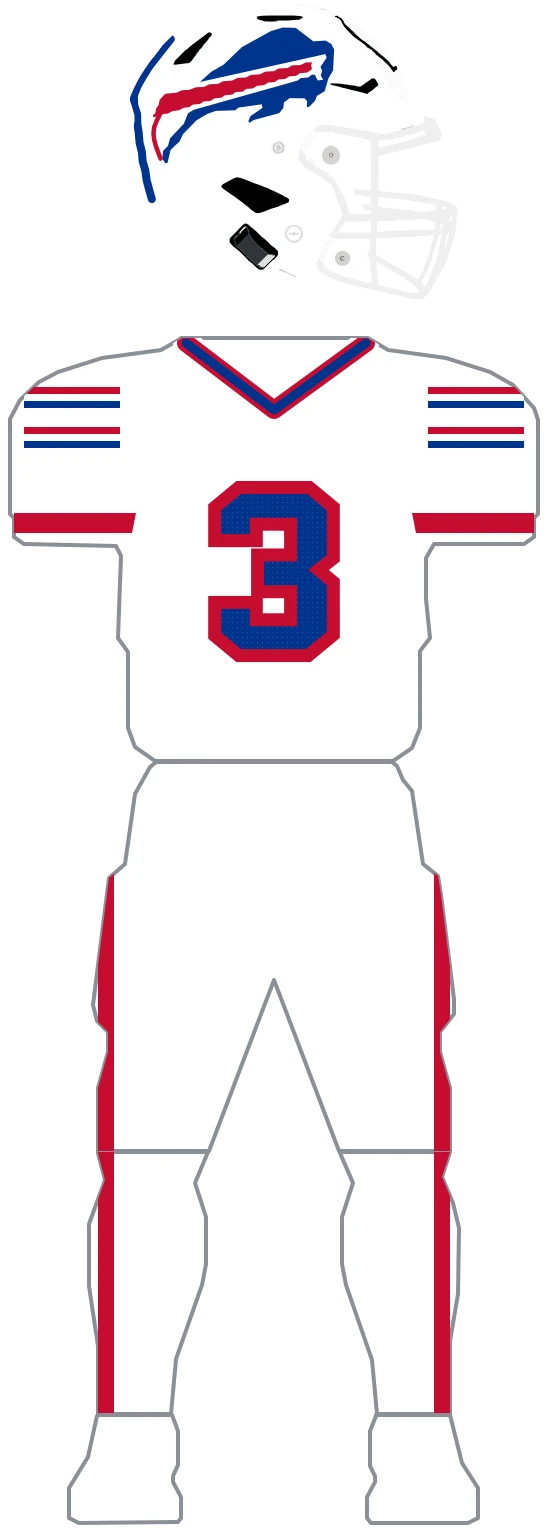
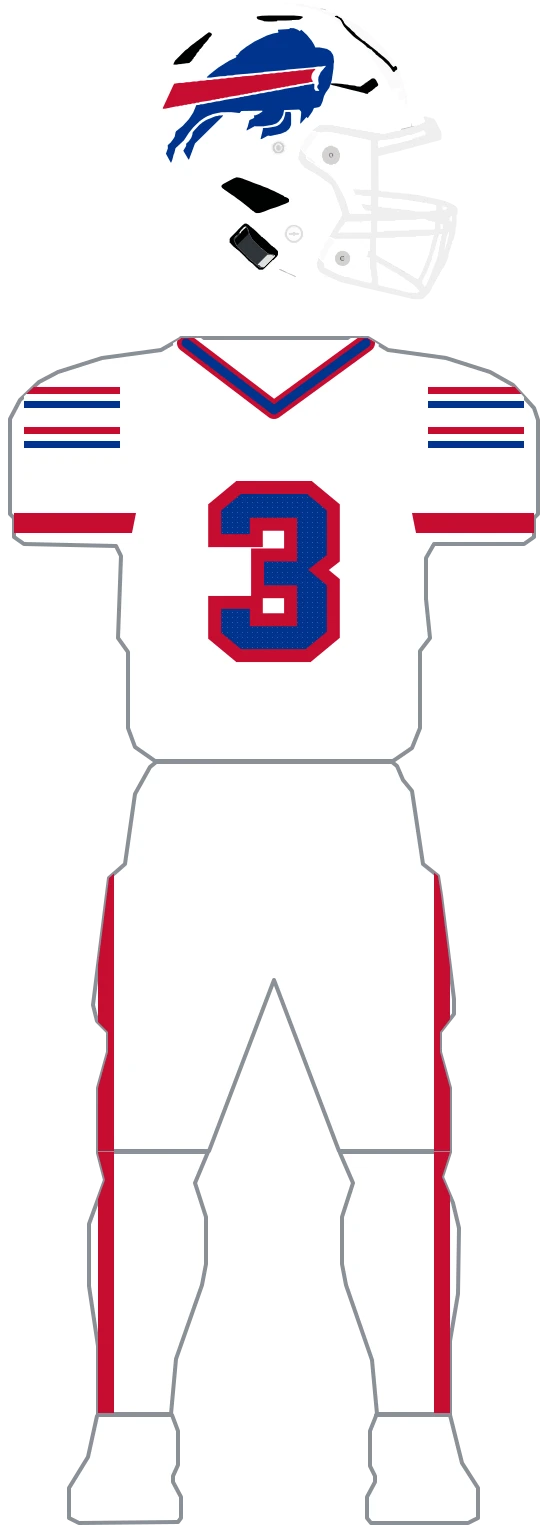
fix(uniforms): re-author Bills helmet buffalo (#739)
* fix(uniforms): re-author Bills helmet buffalo

* fix(uniforms): re-author Bills helmet buffalo

* fix(uniforms): correct Bills helmet decal

Changed region(s): [[0.2125, 0.0306, 0.6071, 0.1531]]

diff --git a/lib/uniforms/teams/bills.ts b/lib/uniforms/teams/bills.ts
@@ -1,4 +1,4 @@
-// Buffalo's construction geometry — the helmet decal/edge paths, sleeve-band paths, collar
+// Buffalo's construction geometry — the helmet decal, sleeve-band paths, collar
 // widths and fixed construction colors only. The composable parts definition that consumes them
 // lives in ./bills.parts.ts; the former flat BILLS_UNIFORMS was deleted in the migration that
 // proved parts render byte-identically (see parts-parity.test.ts for the one-time gate).
@@ -11,18 +11,9 @@ export const BILLS_RED = '#C60C30';
 // The abstract buffalo and diagonal stripe use the helmet's raw x:139-802, y:65-674 coordinates.
 // The stripe's unfilled notch intentionally lets the white shell show through.
 export const BILLS_HELMET_DECAL_BUFFALO_PATH =
-  'M542.2,156.0 L547.8,167.0 L545.6,208.8 L536.2,225.1 L528.9,250.5 L513.4,259.6 L509.3,270.0 L497.0,282.2 L492.9,281.6 L493.9,270.9 L488.8,264.7 L458.8,264.3 L447.5,272.5 L446.2,283.8 L438.0,294.2 L385.9,308.3 L379.3,313.6 L376.1,310.8 L380.5,300.1 L404.5,283.8 L402.9,276.6 L356.2,283.2 L350.2,288.5 L311.1,289.8 L294.3,295.7 L272.9,308.3 L245.7,335.9 L238.5,351.0 L220.8,367.6 L214.5,393.7 L210.0,394.6 L204.0,384.9 L205.6,369.8 L215.4,359.8 L219.8,344.4 L247.3,315.2 L255.5,294.5 L266.9,287.6 L474.3,229.2 L481.2,224.2 L495.8,222.9 L503.3,217.2 L509.3,217.6 L514.7,228.9 L525.8,227.6 L521.0,219.1 L523.9,209.1 L520.4,201.9 L532.7,183.3 L530.2,176.1 L279.2,232.0 L301.9,211.6 L326.8,197.2 L363.5,162.0 L421.6,130.0 L444.9,123.1 L470.8,123.7 L506.2,150.7 L530.2,149.1 Z';
+  'M459.6,124.1 L467.5,124.5 L475.0,127.4 L479.0,130.4 L482.0,127.4 L493.2,137.8 L502.9,149.6 L507.7,157.4 L510.1,162.9 L518.9,162.9 L533.5,165.9 L541.0,170.7 L545.3,177.3 L546.5,181.0 L547.7,192.5 L546.8,195.1 L546.5,204.3 L542.9,229.1 L538.0,243.5 L530.7,253.8 L527.4,260.5 L524.7,270.8 L521.0,279.3 L517.4,282.3 L507.4,284.1 L504.1,291.2 L495.0,304.5 L492.6,301.9 L480.8,315.2 L480.2,315.2 L479.9,313.3 L482.0,293.4 L481.4,290.8 L478.0,287.1 L448.4,288.2 L447.5,288.9 L446.0,296.7 L442.3,304.5 L436.3,311.8 L432.3,314.8 L423.8,317.8 L405.7,320.7 L390.5,320.7 L389.6,320.0 L373.3,328.8 L372.7,328.8 L372.7,327.7 L373.6,324.0 L374.5,322.9 L378.4,308.2 L386.6,304.5 L388.1,302.6 L387.2,298.9 L390.8,298.5 L396.9,296.0 L404.2,291.2 L404.2,289.3 L362.1,290.0 L358.7,294.1 L341.8,292.3 L321.8,292.6 L305.7,296.0 L294.2,300.4 L287.0,304.5 L278.8,310.4 L266.1,322.6 L257.0,334.0 L247.3,348.8 L230.6,364.3 L227.9,375.0 L227.0,376.2 L224.3,386.9 L221.9,393.2 L221.0,393.2 L211.3,375.4 L215.2,364.7 L214.9,358.4 L220.7,353.2 L227.0,344.7 L229.1,340.7 L230.6,332.5 L231.9,330.3 L245.2,319.6 L257.3,306.3 L265.8,293.4 L272.1,278.2 L277.9,277.8 L280.0,276.7 L285.8,276.4 L296.1,273.8 L299.7,273.8 L312.1,270.8 L317.9,270.5 L328.2,267.9 L357.8,263.1 L360.3,262.0 L366.0,261.6 L368.1,260.5 L373.9,260.1 L384.2,257.5 L389.9,257.2 L400.2,254.6 L406.0,254.2 L416.3,251.6 L419.9,251.6 L432.3,248.7 L436.0,248.7 L448.4,245.7 L478.0,240.9 L480.5,239.8 L486.2,239.4 L488.3,238.3 L502.3,236.5 L504.4,235.3 L508.3,235.7 L508.0,245.7 L510.8,249.8 L517.7,249.8 L518.0,249.0 L514.1,243.5 L514.1,239.8 L517.1,235.7 L515.9,228.0 L516.5,222.0 L521.0,212.4 L531.0,200.6 L530.4,199.5 L522.3,201.0 L515.6,201.0 L507.4,202.5 L452.6,207.3 L448.4,208.4 L408.1,211.7 L404.2,212.8 L349.0,217.6 L345.1,218.7 L334.5,219.1 L330.3,220.2 L319.7,220.6 L300.6,223.2 L293.3,223.2 L293.3,222.0 L299.7,216.1 L316.6,202.8 L337.8,189.5 L351.5,182.9 L352.7,181.0 L351.2,180.3 L350.9,179.2 L355.1,177.3 L360.6,170.3 L372.4,161.4 L388.4,151.1 L412.6,139.3 L426.3,134.8 L435.7,133.3 L436.6,132.2 L435.4,129.7 L435.7,127.4 L457.8,126.0 L459.3,124.5 Z M323.3,298.5 L325.1,298.5 L325.4,299.7 L322.4,303.0 L269.4,355.1 L257.6,386.9 L256.4,386.9 L246.1,369.5 L251.8,359.9 L251.8,355.5 L257.0,350.7 L261.8,344.0 L264.3,337.3 L264.6,333.3 L267.0,330.0 L277.9,318.1 L285.2,312.2 L292.4,307.8 L310.6,300.4 L315.1,300.0 L317.3,298.9 L323.0,298.9 Z M450.5,291.9 L460.5,291.9 L461.7,296.3 L461.7,317.4 L459.3,323.3 L456.9,326.6 L451.7,331.1 L441.1,335.5 L420.5,339.9 L415.4,339.2 L403.3,345.8 L400.5,346.2 L405.1,327.7 L405.1,325.2 L406.0,324.0 L414.8,323.7 L430.2,321.1 L434.4,319.6 L439.6,316.3 L445.0,309.6 L447.2,305.6 L449.6,297.8 L450.2,292.3 Z';
 export const BILLS_HELMET_DECAL_STRIPE_PATH =
-  'M503.6,192.8 L501.8,197.8 L503.3,206.6 L493.5,213.2 L479.3,214.4 L471.4,219.8 L457.9,220.7 L450.9,225.7 L436.4,227.0 L428.5,232.3 L416.2,232.9 L407.7,238.3 L393.5,239.5 L385.3,244.9 L372.0,245.8 L365.1,251.2 L350.8,252.1 L344.2,257.1 L329.7,258.4 L322.4,263.4 L308.2,264.7 L301.0,269.7 L286.8,270.9 L279.2,276.0 L265.3,277.2 L258.0,282.2 L247.3,283.5 L237.2,288.5 L223.9,290.4 L215.1,295.1 L203.1,296.4 L193.3,301.7 L185.4,301.7 L185.4,298.2 L190.1,294.2 L191.7,285.1 L196.8,277.8 L198.7,267.8 L208.1,257.4 L216.4,254.9 L232.8,253.4 L242.9,248.6 L257.7,247.7 L271.9,242.4 L286.8,242.0 L298.1,236.7 L316.1,235.5 L325.9,230.4 L343.6,229.2 L354.6,223.8 L371.7,222.9 L381.2,217.9 L399.1,216.6 L410.2,211.3 L427.2,210.3 L436.7,205.0 L455.0,204.1 L463.6,198.7 L480.6,198.1 L491.3,192.8 Z';
-
-// Back-edge piping also stays in raw helmet space. The wider navy outer stroke must paint before
-// the narrower red inset.
-export const BILLS_HELMET_EDGE_STRIPE_OUTER_PATH =
-  'M221.1,146.0 L206.2,164.8 L191.4,183.7 L176.9,202.5 L165.2,221.3 L154.5,240.2 L147.2,259.0 L147.8,277.8 L153.8,296.7 L154.2,315.5 L157.0,334.3 L158.6,353.2 L163.3,372.0 L164.9,390.8 L170.3,409.7 L172.8,428.5 L177.8,447.4 L183.2,466.2';
-export const BILLS_HELMET_EDGE_STRIPE_INNER_PATH =
-  'M212.9,259.6 L209.4,272.2 L206.6,284.7 L199.0,297.3 L192.7,309.9 L187.9,322.4 L186.4,335.0 L187.9,347.5 L191.1,360.1 L195.8,372.6 L200.6,385.2';
-export const BILLS_HELMET_EDGE_STRIPE_OUTER_WIDTH = 16;
-export const BILLS_HELMET_EDGE_STRIPE_INNER_WIDTH = 9;
+  'M505.9,205.8 L510.1,205.8 L510.1,206.9 L505.3,212.4 L502.9,217.2 L502.0,222.8 L502.9,226.8 L505.3,230.5 L504.1,232.0 L500.2,232.0 L495.9,233.5 L473.8,236.8 L471.7,237.9 L459.3,239.4 L455.3,240.9 L451.4,240.9 L447.2,242.4 L443.2,242.4 L439.0,243.8 L435.0,243.8 L430.8,245.3 L426.9,245.3 L422.6,246.8 L402.3,249.8 L398.4,251.2 L394.2,251.2 L390.2,252.7 L386.0,252.7 L382.1,254.2 L378.1,254.2 L373.9,255.7 L369.9,255.7 L365.7,257.2 L361.8,257.2 L357.5,258.6 L337.2,261.6 L333.3,263.1 L329.1,263.1 L325.1,264.5 L320.9,264.5 L317.0,266.0 L313.0,266.0 L308.8,267.5 L304.8,267.5 L300.6,269.0 L280.3,271.9 L276.4,273.4 L272.1,273.4 L268.2,274.9 L264.0,274.9 L260.0,276.4 L255.8,276.4 L251.8,277.8 L247.6,277.8 L243.7,279.3 L239.4,279.3 L235.5,280.8 L231.6,280.8 L211.0,285.2 L205.2,285.6 L205.2,283.8 L227.0,236.8 L228.2,235.3 L237.9,233.9 L245.2,233.9 L252.1,232.4 L259.1,232.4 L266.1,230.9 L273.3,230.9 L280.3,229.4 L287.3,229.4 L294.2,228.0 L301.5,228.0 L308.5,226.5 L315.7,226.5 L322.7,225.0 L329.7,225.0 L336.6,223.5 L343.6,223.5 L350.9,222.0 L357.8,222.0 L364.8,220.6 L386.3,219.1 L393.3,217.6 L400.2,217.6 L407.2,216.1 L414.5,216.1 L421.4,214.7 L428.4,214.7 L435.4,213.2 L442.3,213.2 L449.6,211.7 L456.5,211.7 L463.8,210.2 L470.8,210.2 L477.7,208.7 L485.0,208.7 L492.0,207.3 L505.6,206.2 Z';
 
 // The GUD construction reference shows red/white/navy as explicit bands. These paths use the
 // outer viewBox, and each right path explicitly mirrors its left across x=294.

diff --git a/lib/uniforms/teams/bills.parts.ts b/lib/uniforms/teams/bills.parts.ts
@@ -12,10 +12,6 @@ import {
   BILLS_COLLAR_WIDTHS,
   BILLS_HELMET_DECAL_BUFFALO_PATH,
   BILLS_HELMET_DECAL_STRIPE_PATH,
-  BILLS_HELMET_EDGE_STRIPE_INNER_PATH,
-  BILLS_HELMET_EDGE_STRIPE_INNER_WIDTH,
-  BILLS_HELMET_EDGE_STRIPE_OUTER_PATH,
-  BILLS_HELMET_EDGE_STRIPE_OUTER_WIDTH,
   BILLS_SLEEVE_NAVY_LEFT,
   BILLS_SLEEVE_NAVY_RIGHT,
   BILLS_SLEEVE_RED_LEFT,
@@ -58,26 +54,6 @@ const HELMET_WHITE: UniformPart = {
       clip: true,
       kind: 'fill',
       fill: 'red',
-    },
-    {
-      id: 'bills-helmet-edge-outer',
-      surface: 'helmet',
-      d: BILLS_HELMET_EDGE_STRIPE_OUTER_PATH,
-      clip: true,
-      kind: 'stroke',
-      stroke: 'navy',
-      strokeWidth: BILLS_HELMET_EDGE_STRIPE_OUTER_WIDTH,
-      lineCap: 'round',
-    },
-    {
-      id: 'bills-helmet-edge-inner',
-      surface: 'helmet',
-      d: BILLS_HELMET_EDGE_STRIPE_INNER_PATH,
-      clip: true,
-      kind: 'stroke',
-      stroke: 'red',
-      strokeWidth: BILLS_HELMET_EDGE_STRIPE_INNER_WIDTH,
-      lineCap: 'round',
     },
     {
       id: 'generic-sleeve-stripe-left',
@@ -237,28 +213,11 @@ const JERSEY_BLUE: UniformPart = {
   number: { fill: 'readable-on-body', outline: 'red', outlineWidth: 26 },
 };
 
-// Away jersey: white body with the red pant stripe (the generic layers painted red, since the
-// white body needs the contrast). The red sleeve band lives in the shared HELMET_WHITE part.
+// Away jersey: white body. The red pant stripe lives on PANTS_WHITE so white pants remain a
+// reusable option for either standard jersey.
 const JERSEY_WHITE: UniformPart = {
   base: 'white',
-  layers: [
-    {
-      id: 'generic-pants-stripe-left',
-      surface: 'leg-left',
-      d: PANTS_STRIPE_PATH_LEFT,
-      clip: true,
-      kind: 'fill',
-      fill: 'red',
-    },
-    {
-      id: 'generic-pants-stripe-right',
-      surface: 'leg-right',
-      d: PANTS_STRIPE_PATH_RIGHT,
-      clip: true,
-      kind: 'fill',
-      fill: 'red',
-    },
-  ],
+  layers: [],
   number: { fill: 'navy', outline: 'red', outlineWidth: 26 },
 };
 
@@ -292,8 +251,29 @@ const PANTS_BLUE: UniformPart = {
   ],
 };
 
-// Away pants, white with the red stripe (painted via JERSEY_WHITE's legs).
-const PANTS_WHITE: UniformPart = { base: 'white', layers: [] };
+// White pants are the canonical away option and the alternate home option; their red stripe is
+// part of the pants so this option remains correct when paired with either standard jersey.
+const PANTS_WHITE: UniformPart = {
+  base: 'white',
+  layers: [
+    {
+      id: 'generic-pants-stripe-left',
+      surface: 'leg-left',
+      d: PANTS_STRIPE_PATH_LEFT,
+      clip: true,
+      kind: 'fill',
+      fill: 'red',
+    },
+    {
+      id: 'generic-pants-stripe-right',
+      surface: 'leg-right',
+      d: PANTS_STRIPE_PATH_RIGHT,
+      clip: true,
+      kind: 'fill',
+      fill: 'red',
+    },
+  ],
+};
 
 // Rivalries pants, white, unbanded.
 const PANTS_RIVALRIES: UniformPart = { base: 'white', layers: [] };
@@ -318,8 +298,10 @@ export const BILLS_PARTS: TeamPartsDefinition = {
   },
   pants: { blue: PANTS_BLUE, white: PANTS_WHITE, rivalries: PANTS_RIVALRIES },
   kits: {
-    home: { helmet: 'white', jersey: 'blue', pants: 'blue' },
-    away: { helmet: 'white', jersey: 'white', pants: 'white' },
+    // The 2025 GUD composite shows both blue and white trousers with each modern top;
+    // canonical-first preserves the existing blue-over-blue and white-over-white rasters.
+    home: { helmet: 'white', jersey: 'blue', pants: ['blue', 'white'] },
+    away: { helmet: 'white', jersey: 'white', pants: ['white', 'blue'] },
     'rivalries-2025': { helmet: 'ice', jersey: 'rivalries', pants: 'rivalries' },
   },
 };

diff --git a/scripts/uniform-draw/bills_buffalo.py b/scripts/uniform-draw/bills_buffalo.py
@@ -1,0 +1,73 @@
+"""Regenerates Buffalo's helmet buffalo from the approved standalone mark.
+
+    python3 scripts/uniform-draw/bills_buffalo.py --check
+
+The linework source is ``nfl-uniform-refs/bills/bills-mark.svg`` (the club mark,
+non-free/trademarked; provenance and fair-use treatment are recorded in the
+vault's 2026-09-03 licence audit). The GUD 2025 composite is used only for the
+raw helmet placement box, not as the mark source. The SVG contains two visible
+8-connected components: one navy buffalo and one red diagonal stripe; the
+white gap is shell-colored negative space, not a third path or a hole. The
+source is rendered at its true 189:126 aspect before tracing so qlmanage's
+square-thumbnail crop cannot change the topology. Both masks use the same
+canvas and ``space='image'`` so their shared placement and relative extents
+are preserved. The box is the established GUD-measured helmet mark extent in
+raw mannequin space; no side-seam or leg detail is relevant to the front view.
+"""
+
+import subprocess
+import sys
+import tempfile
+from pathlib import Path
+
+sys.path.insert(0, str(Path(__file__).resolve().parent))
+
+from PIL import Image  # noqa: E402
+
+from drawkit import Box, crop_to_art, main, mask, trace  # noqa: E402
+
+REF = Path.home() / 'Documents/GitHubProjects/nfl-uniform-refs/bills/bills-mark.svg'
+MODULE = Path(__file__).resolve().parents[2] / 'lib/uniforms/teams/bills.ts'
+BOX = Box(204.0, 123.0, 344.0, 272.0)
+UPSCALE = 4
+EPS = 1.6
+MIN_REGION = 80
+
+
+def navy(c):
+    return c[2] > 90 and c[2] > c[0] * 1.4 and c[2] > c[1] * 1.2
+
+
+def red(c):
+    return c[0] > 150 and c[0] > c[1] * 1.5 and c[0] > c[2] * 1.4
+
+
+def mark_masks():
+    with tempfile.TemporaryDirectory() as tmp:
+        rendered = Path(tmp) / 'bills-mark.png'
+        subprocess.run(
+            ['magick', '-background', 'white', '-density', '150', str(REF), str(rendered)],
+            check=True,
+            capture_output=True,
+        )
+        im = crop_to_art(Image.open(rendered).convert('RGB'))
+    im = im.resize((im.width * UPSCALE, im.height * UPSCALE), Image.Resampling.LANCZOS)
+    navy_mask, w, h = mask(im, navy)
+    red_mask, _, _ = mask(im, red)
+    return navy_mask, red_mask, w, h
+
+
+def build():
+    navy_mask, red_mask, w, h = mark_masks()
+    return {
+        'BILLS_HELMET_DECAL_BUFFALO_PATH': trace(
+            navy_mask, w, h, BOX, eps=EPS, minsize=MIN_REGION, space='image'
+        ),
+        'BILLS_HELMET_DECAL_STRIPE_PATH': trace(
+            red_mask, w, h, BOX, eps=EPS, minsize=MIN_REGION, space='image'
+        ),
+    }
+
+
+if __name__ == '__main__':
+    main(build, MODULE)
